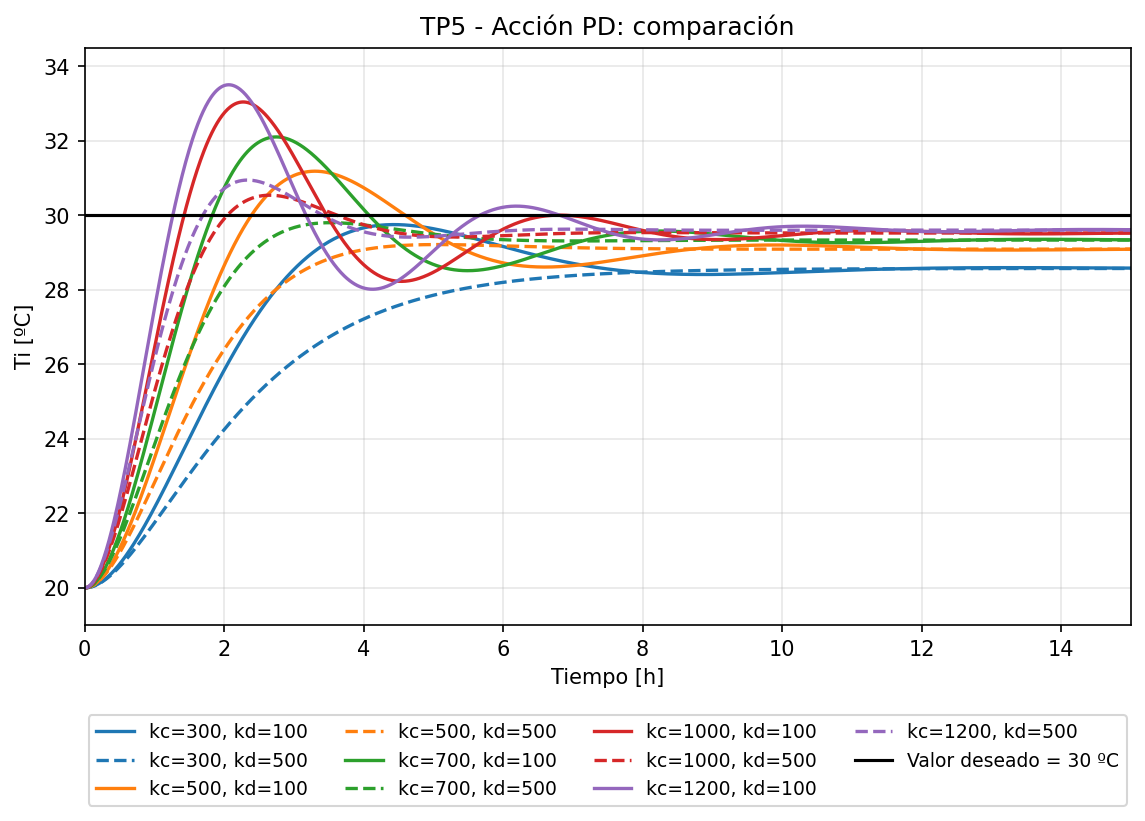
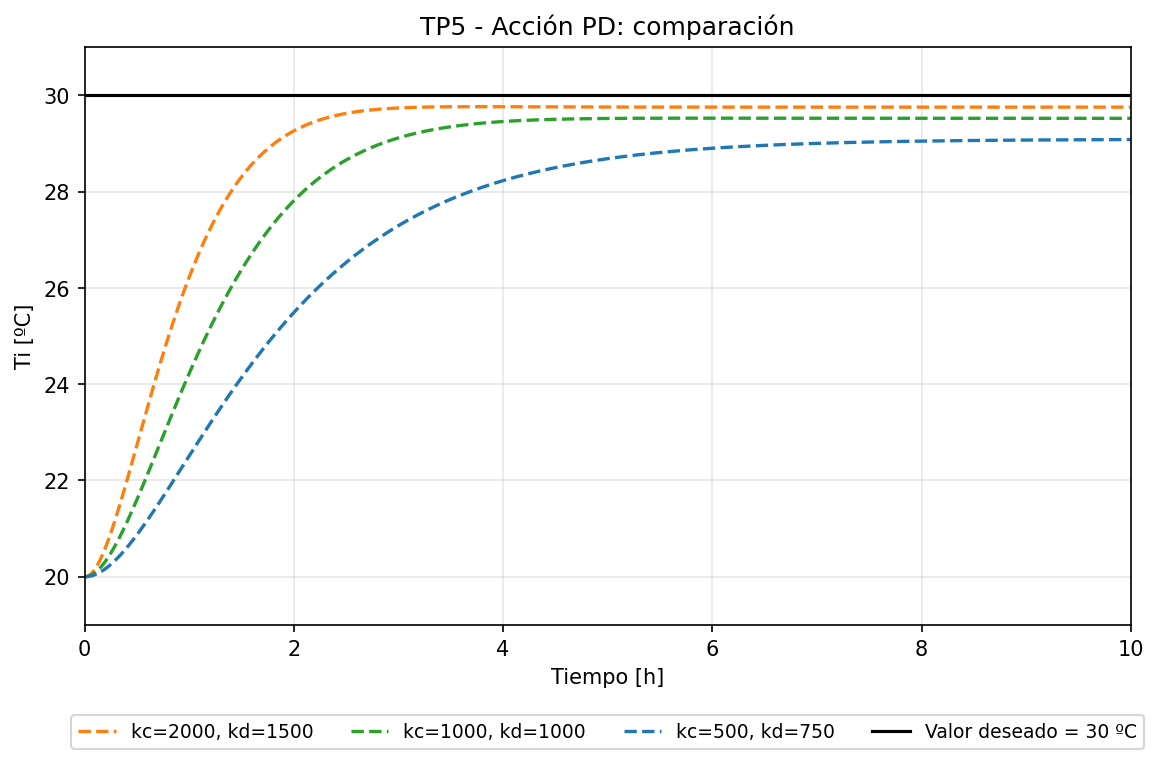
pruebas con valores óptimos de PD

diff --git a/TP5- acciones de control/ej5_acciones_de_control.py b/TP5- acciones de control/ej5_acciones_de_control.py
@@ -170,12 +170,14 @@ if __name__ == "__main__":
     v, Ti0, dt = 30.0, 20.0, 0.0125
 
     # ---------------- 1) Acción PD ----------------
-    casos_pd = [(300, 100), (300, 500), (500, 100), (500, 500), (700, 100), 
+    casos_pd = [(500, 100), (500, 500), (700, 100), 
                 (700, 500), (1000, 100), (1000, 500), (1200, 100),
                 (1200, 500)]
+    # buscamos los valores óptimos dependiendo de qué objetivo querramos conseguir
+    casos_objetivos = [(2000, 1500), (1000, 1000), (500, 750)]
 
     resultados = [simular_lazo_pid(kc, kd, 0.0, v, dt, Ti0, **lazo, **valvula,
-                                   **proceso) for kc, kd in casos_pd]
+                                   **proceso) for kc, kd in casos_objetivos]
 
     print(f"{'caso':>16} {'tf [h]':>8} {'Ti máx':>8} {'Ti final':>9} {'Ti_ss':>8}")
     for r in resultados:
@@ -195,13 +197,15 @@ if __name__ == "__main__":
     tf_comun = max(r["t"][-1] for r in resultados)
     comparacion = [simular_lazo_pid(kc, kd, 0.0, v, dt, Ti0, tf=tf_comun,
                                     **lazo, **valvula, **proceso)
-                   for kc, kd in casos_pd]
+                   for kc, kd in casos_objetivos]
 
-    colores = {300: "C0", 500: "C1", 700: "C2", 1000: "C3", 1200: "C4"}
+    # colores = {500: "C0", 700: "C1", 1000: "C2", 1200: "C3"}
+    colores = {500: "C0", 2000: "C1", 1000: "C2"}
+    
     estilos = [dict(color=colores[r["kc"]],
-               linestyle="-" if r["kd"] == 100 else "--")
+               linestyle="-" if r["kd"] == 2000 else "--")
                for r in comparacion]
     ax = graficar_comparacion_pid(comparacion, estilos,
-                                  "TP5 - Acción PD: comparación", t_max=15)
+                                  "TP5 - Acción PD: comparación", t_max=10)
     ax.figure.savefig("tp5_pd_comparacion.png", dpi=150, bbox_inches="tight")
     plt.close(ax.figure)
